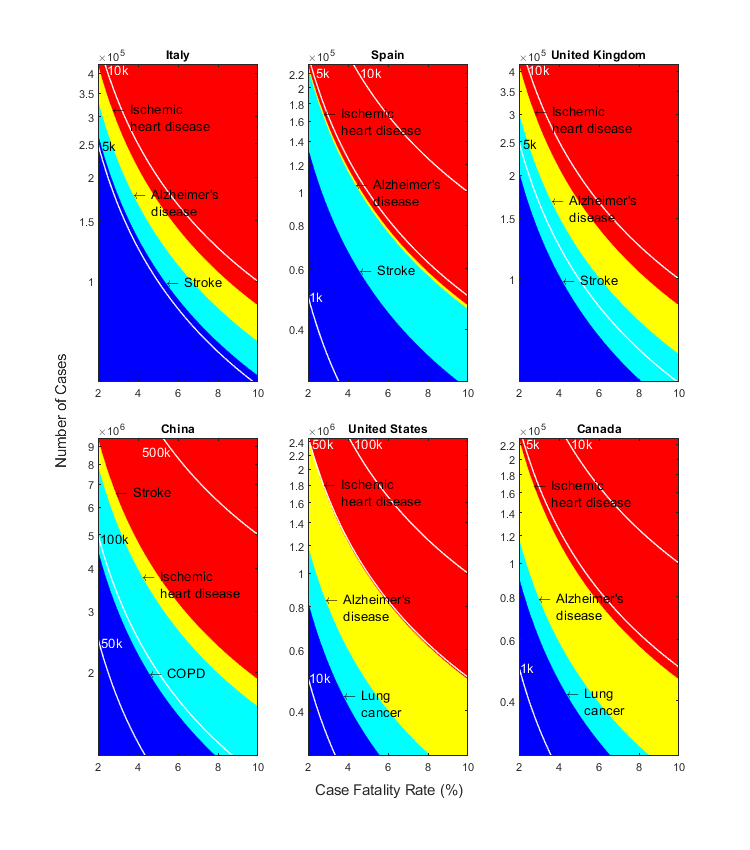
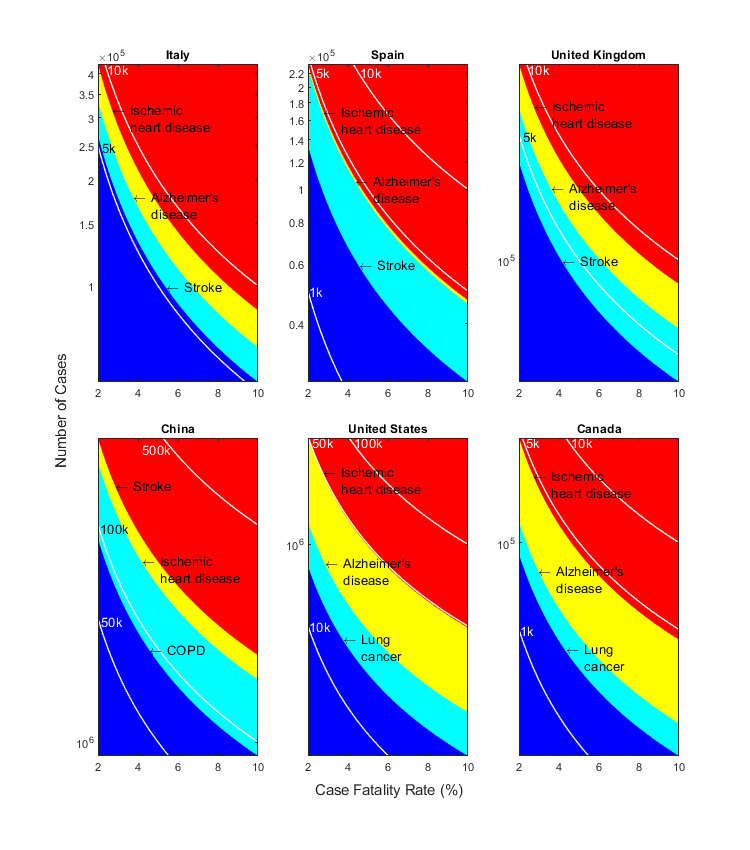
revised y axis range

diff --git a/Matlab/make_y_vector.m b/Matlab/make_y_vector.m
@@ -9,7 +9,7 @@
 % INPUT
 %   xmin: Minimum value of your x range
 %   xmax: Maximum value of your x range
-%   level: Vector/Numeric of contour levels
+%   level: Vector of contour levels
 %   N: Length of output vector
 % 
 % OUTPUT
@@ -18,8 +18,6 @@
 % ==========================================================================
 function y = make_y_vector(xmin, xmax, level, N)
   ymax = max(level)/xmin;
-  ymin = max(level)/xmax;
-  temp = (ymax - ymin)/10;
-  ymin = ymin - temp;
+  ymin = min(level)/xmax;
   y = linspace(ymin, ymax, N);
 end

diff --git a/Matlab/revise_cmap.m b/Matlab/revise_cmap.m
@@ -19,7 +19,7 @@ function new_cmap = revise_cmap(cmap, level)
   L = sort(level);
   C = abs(diff(L));
   M = max(floor(sum(C)./C));
-  D = round(C/sum(C)*(M+3));
+  D = round(C/sum(C)*(M+2));
   new_cmap = [];
   for i = 1:length(C)
     new_cmap = [new_cmap; repmat(cmap(i, :), D(i), 1)];
